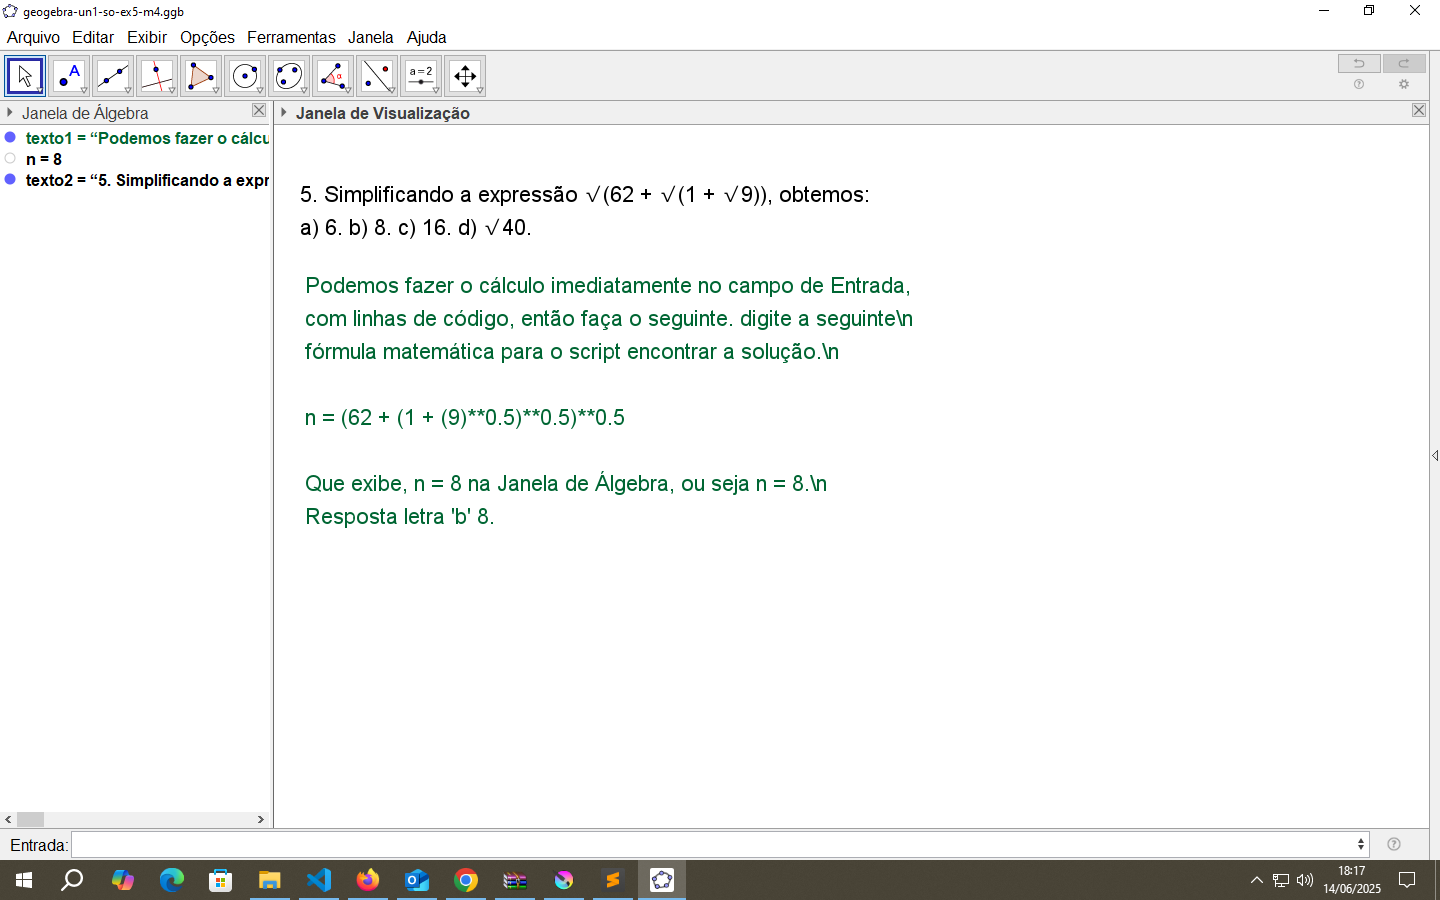
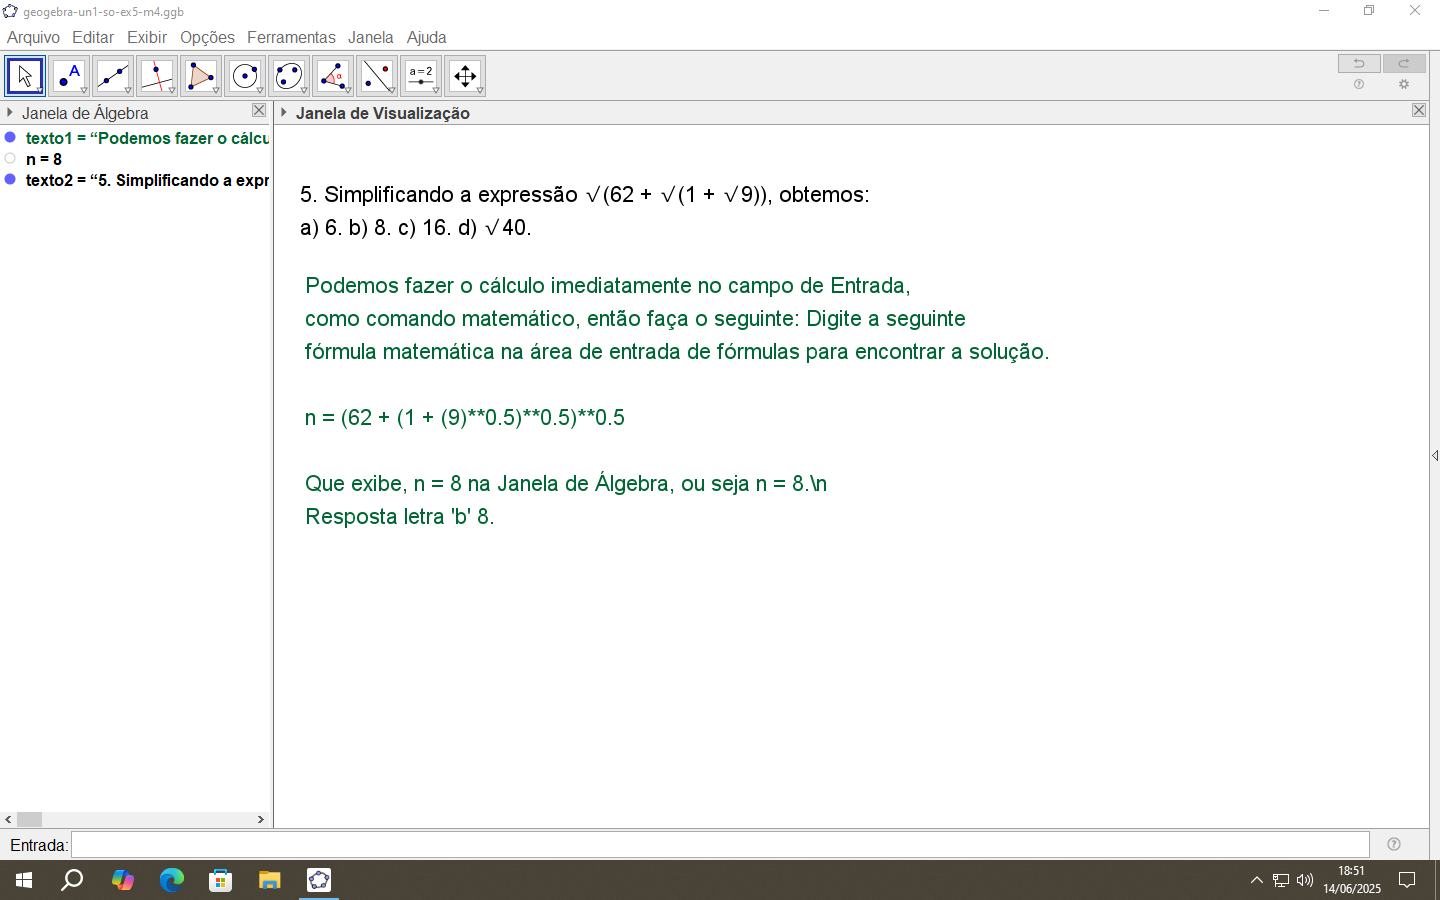
Ajustes de solução de exercício5

Changed region(s): [[0.25, 0.3422, 0.7188, 0.4044], [0.1562, 0.9333, 0.5, 1.0], [0.0, 0.0, 0.3125, 0.0622]]

diff --git a/app/scripts/solucoes.py b/app/scripts/solucoes.py
@@ -363,9 +363,9 @@ Resposta letra 'b' 8.
 """
 
 so_ex5_m4 = """
-Podemos fazer o cálculo imediatamente no campo de Entrada,\n
-com linhas de código, então faça o seguinte. digite a seguinte\n
-fórmula matemática para o script encontrar a solução.\n
+Podemos fazer o cálculo imediatamente no campo de Entrada, \n
+como comando matemático, então faça o seguinte: Digite a seguinte\n
+fórmula matemática na área de entrada de fórmulas para encontrar a solução.\n
 
 n = (62 + (1 + (9)**0.5)**0.5)**0.5
 
